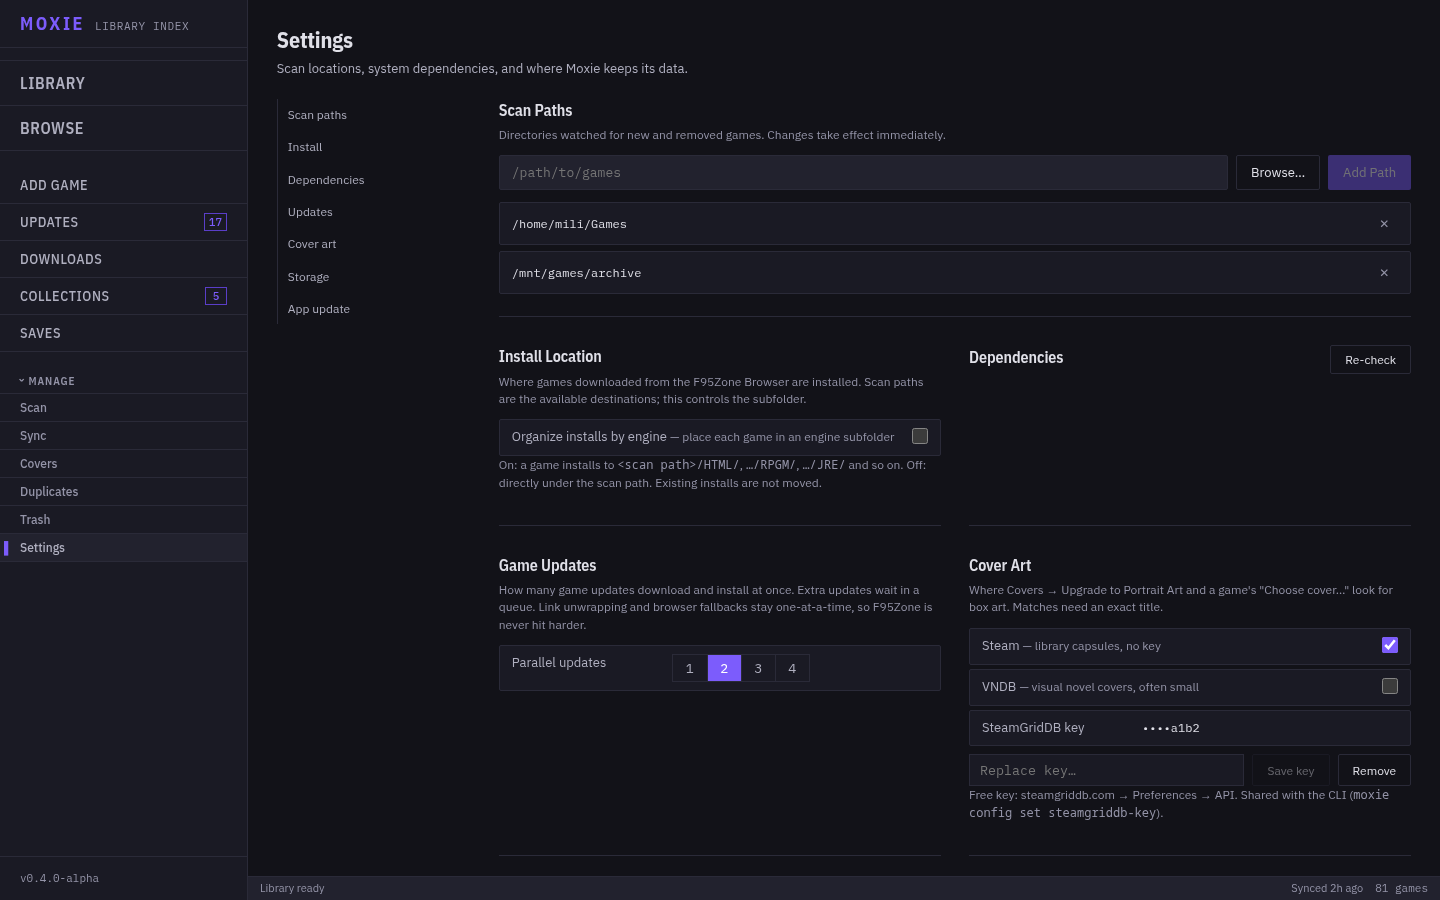
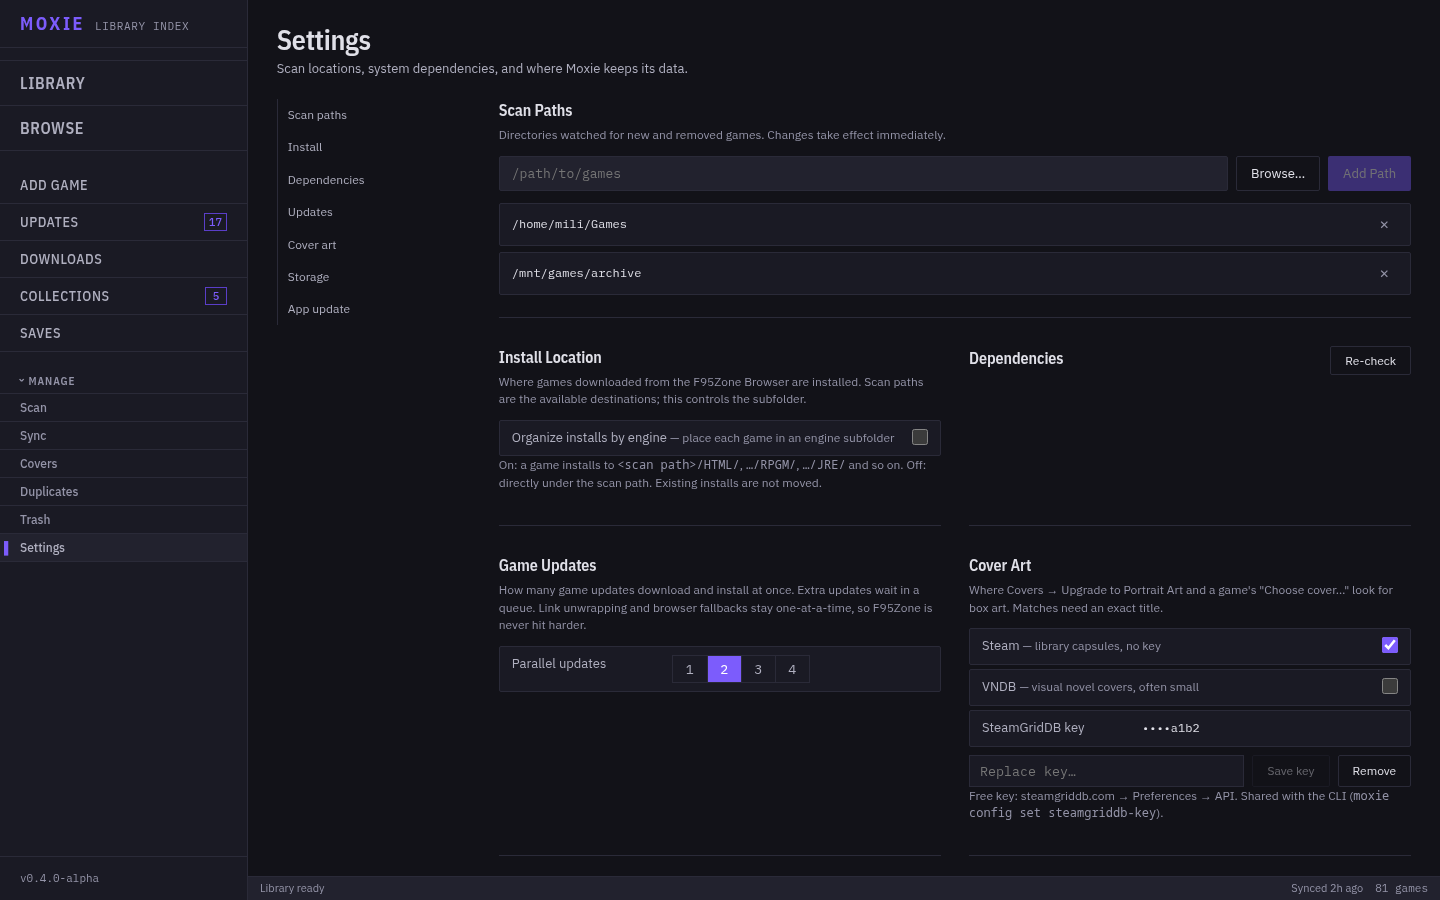
style(desktop): align secondary page titles with the library

diff --git a/desktop/frontend/src/lib/SyncDialog.svelte b/desktop/frontend/src/lib/SyncDialog.svelte
@@ -232,7 +232,7 @@
     margin-bottom: 18px;
   }
   .sync-heading { min-width: 0; }
-  .sync-header h2 { font-size: var(--text-2xl); font-weight: 600; margin: 0 0 4px; }
+  .sync-header h2 { font-size: var(--text-3xl); font-weight: 600; line-height: 1.15; letter-spacing: -0.01em; margin: 0 0 4px; }
   .sync-subtitle { font-size: var(--text-sm); color: var(--text-secondary); margin: 0; }
   .header-actions { display: flex; align-items: center; gap: 10px; flex-shrink: 0; }
 

diff --git a/desktop/frontend/src/lib/SettingsView.svelte b/desktop/frontend/src/lib/SettingsView.svelte
@@ -371,7 +371,7 @@
   }
 
   .settings-header { margin-bottom: 20px; }
-  .settings-header h2 { font-size: var(--text-2xl); font-weight: 700; margin: 0 0 4px; }
+  .settings-header h2 { font-size: var(--text-3xl); font-weight: 600; line-height: 1.15; letter-spacing: -0.01em; margin: 0 0 4px; }
   .settings-subtitle { font-size: var(--text-base); color: var(--text-secondary); margin: 0; }
 
   .settings-section {

diff --git a/desktop/frontend/src/lib/AddGameDialog.svelte b/desktop/frontend/src/lib/AddGameDialog.svelte
@@ -269,7 +269,7 @@
   }
 
   .add-game-header { margin-bottom: 20px; }
-  .add-game-header h2 { font-size: var(--text-2xl); font-weight: 600; margin: 0 0 4px; }
+  .add-game-header h2 { font-size: var(--text-3xl); font-weight: 600; line-height: 1.15; letter-spacing: -0.01em; margin: 0 0 4px; }
   .add-game-subtitle { font-size: var(--text-sm); color: var(--text-secondary); margin: 0; }
 
   .add-game-body {

diff --git a/desktop/frontend/src/lib/CoversView.svelte b/desktop/frontend/src/lib/CoversView.svelte
@@ -210,7 +210,7 @@
     gap: 24px;
   }
   .covers-heading { min-width: 0; }
-  .covers-header h2 { margin: 0 0 6px; font-size: var(--text-2xl); font-weight: 600; }
+  .covers-header h2 { margin: 0 0 6px; font-size: var(--text-3xl); font-weight: 600; line-height: 1.15; letter-spacing: -0.01em; }
   .covers-subtitle {
     margin: 0;
     max-width: 66ch;
